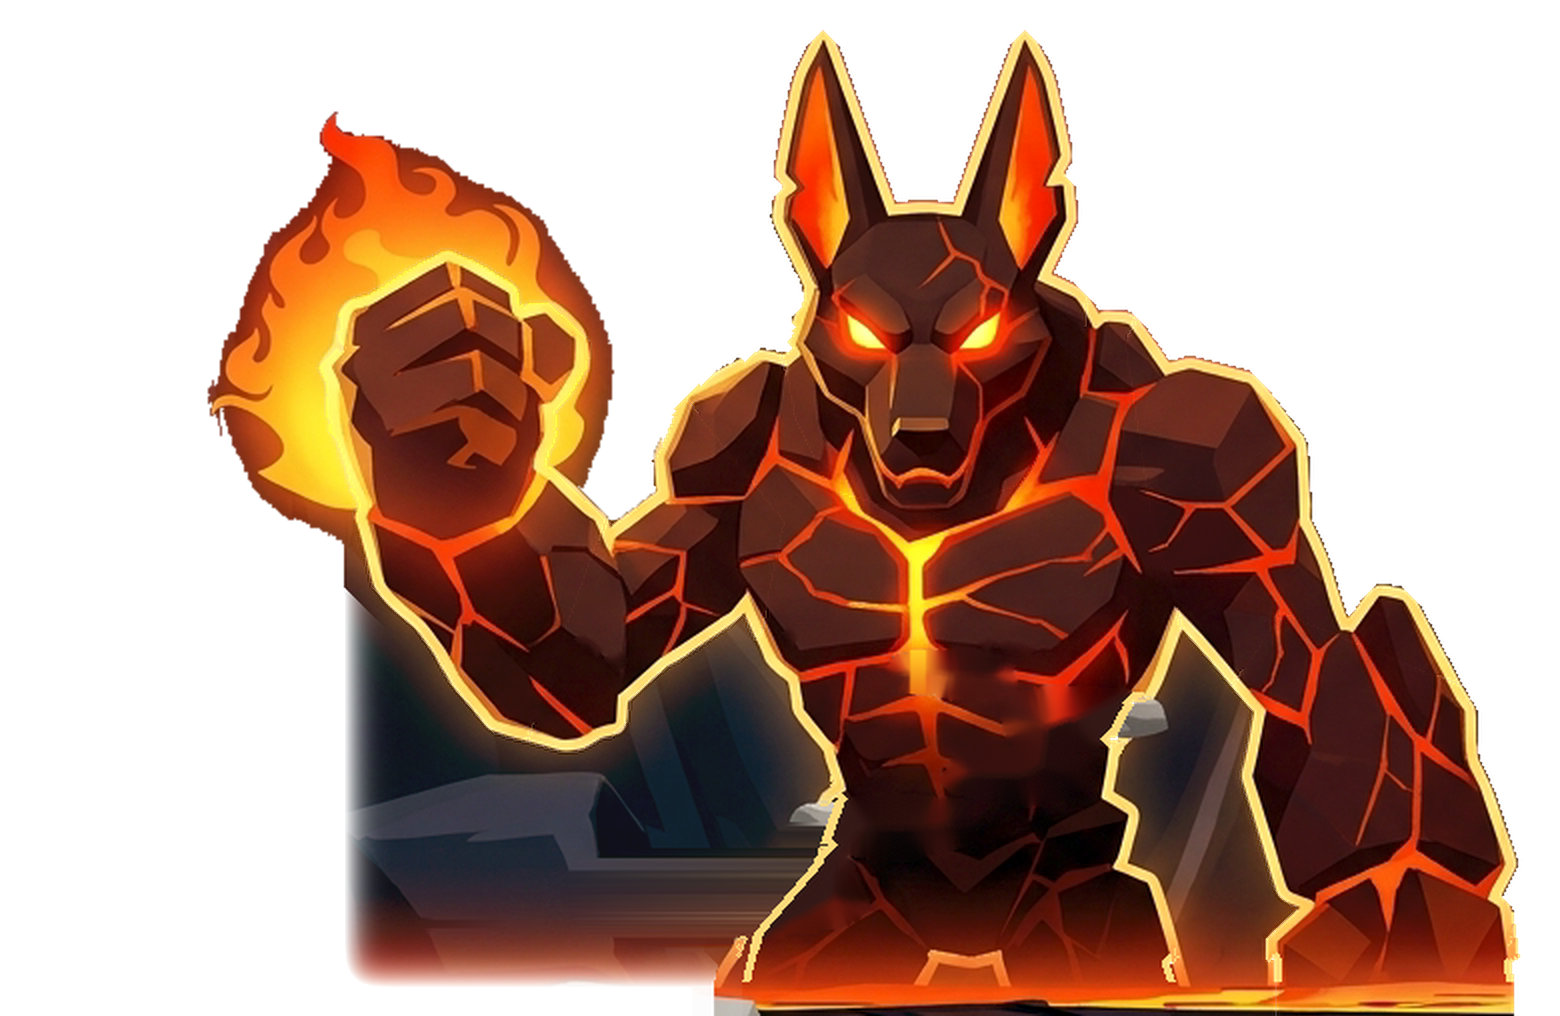
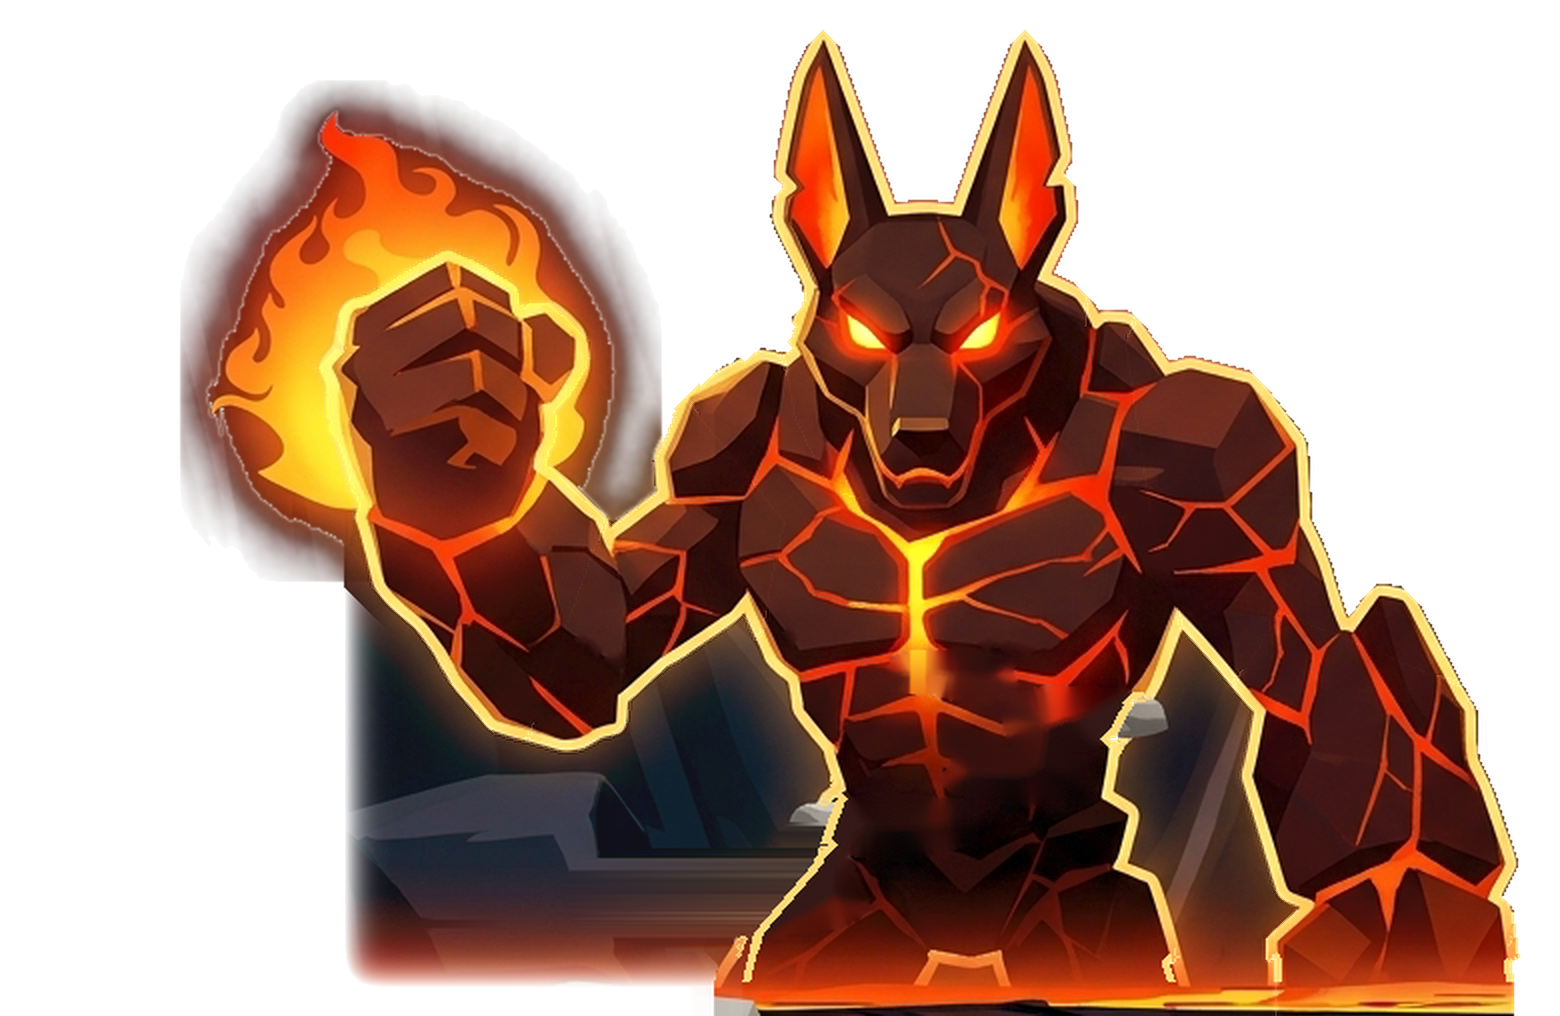
builder: fist flame keeps TARGET's own glow round it; --fist close-up pair
Claude-Session: https://claude.ai/code/session_0183EvjBG5mkJcNR5CzYepVv

Changed region(s): [[0.0923, 0.061, 0.4308, 0.5797]]

diff --git a/tools/beast_rig.py b/tools/beast_rig.py
@@ -131,6 +131,9 @@ FIRE_LEAN = 0.32
 # edge pushed it into a tall pale plume off the fist; TARGET's is a compact
 # orange-yellow blaze curling round the top and back of the fist.
 FIRE_RAW = True
+FIRE_HAZE = 0.92       # alpha of TARGET's own glow round the flame, at the flame
+FIRE_HAZE_PX = 55.0    # TARGET px it fades over
+FIRE_MAX_A = 1.0       # 0.95 (under halo_from, no halo) tried 2026-10-09: no visible change, error up
 FIRE_HUG = 22
 FIRE_CORE = 24
 FIRE_HOT = np.array([255, 244, 196], float)
@@ -407,8 +410,24 @@ def fire_layer(T, m):
         flame = hid & (r > 170) & (r - b > 90) & (g > 60)
         col = np.where(flame[..., None], T, col)
         a = np.where(flame, 1.0, a)
+    if FIRE_RAW and FIRE_HAZE > 0:
+        # TARGET's flame lights the dark cliff round it: a dark red glow
+        # between and beyond the tongues. Keyed out, the fight's slate showed
+        # there and the shader's cream halo ringed the tongues. Carry TARGET's
+        # own glow pixels, fading out FIRE_HAZE_PX from the flame, below the
+        # halo's alpha so it casts none.
+        flame_a = a > 0.5
+        dd = ndi.distance_transform_edt(~flame_a)
+        warm = np.clip((r - b - 8) / 60.0, 0, 1)
+        fall = np.clip(1.0 - dd / FIRE_HAZE_PX, 0, 1) ** 1.2
+        haze = FIRE_HAZE * warm * fall * (inside & ~m) * (~flame_a)
+        haze = ndi.gaussian_filter(haze, 1.0) * (~flame_a) * box
+        a = np.maximum(a, haze)
     if FIRE_RAW:
-        return np.clip(col, 0, 255), a
+        # Just under the shader's halo_from: TARGET's flame casts no cream
+        # halo (its own dark red glow is the haze above); at alpha 1 the
+        # tongues threw the body line's soft orange halo round themselves.
+        return np.clip(col, 0, 255), np.minimum(a, FIRE_MAX_A)
     # Lean the plume back off the fist: above the base, column x samples the
     # column FIRE_LEAN px per row further right.
     sx = xx + FIRE_LEAN * np.clip(FIRE_BASE - yy, 0, None)

diff --git a/tools/vs_target.py b/tools/vs_target.py
@@ -10,6 +10,7 @@ builder looks at this pair rather than at an adjective.
     python tools/vs_target.py shot.png out.png --hand     just the hand
     python tools/vs_target.py shot.png out.png --square   TARGET vs the centred square of the shot
     python tools/vs_target.py shot.png out.png --stones   just the staircase of slabs, cut from the same square
+    python tools/vs_target.py shot.png out.png --fist     the raised fist and its flame, cut from the same square
 
 `--square` is the 1:1 test (Nick, 2026-10-08): TARGET.png is square, the game
 is 16:9, so the game's centred 720x720 square must hold TARGET's picture with
@@ -42,6 +43,9 @@ REGIONS = {
     # 0.703 t, y 0.703 t), so the close-up zooms the same place 1:1 (builder
     # 2026-10-08; the older box was fitted to the beast, not to the square).
     "--stones": {"target": (0.25, 0.33, 0.66, 0.60), "shot": (0.3594, 0.33, 0.5891, 0.60)},
+    # the raised fist and its flame, top left of the square (builder
+    # 2026-10-09: --beast cuts the flame off at its left edge)
+    "--fist": {"target": (0.06, 0.04, 0.38, 0.36), "shot": (0.2525, 0.04, 0.4325, 0.36)},
 }
 
 

diff --git a/design/plan/BUILDER-QUEUE-NOTES.md b/design/plan/BUILDER-QUEUE-NOTES.md
@@ -2154,3 +2154,14 @@ Found by measuring, not by eye: the jackal is TARGET's own pixels, so every crac
 - The speck was the weak-point sigil (glow mesh plus an omni light) at the Height 5 climb point lifted 1.7 hunter heights. TARGET draws no mark, so a drawn beast hides the sigil's children; the node stays as the strike flash's anchor.
 - Grader: VERDICT: PASS.
 - Meshy: 0 credits.
+
+2026-10-08 23:55 EDT, builder (run 7). Not passed; item left open.
+
+- **New `--fist` close-up** in tools/vs_target.py: `--beast` cut the flame off at its left edge, so graders judged it from a sliver.
+- **The flame's own glow.** The hard key dropped TARGET's dark red glow round and between the tongues, so the fight's slate showed there. beast_rig.py `FIRE_HAZE` 0.92 / `FIRE_HAZE_PX` 55: TARGET's own warm pixels round the flame, fading with distance. Fist-box error 24.8 -> 22.3.
+- **Tried, reverted:** fire alpha 0.95 so it casts no shader halo (no visible change, error 23.8); haze over 35 px with a stricter warm key (23.3).
+- **Measured:** flame edge Laplacian TARGET 6.5 / game 7.4 (as sharp); high-frequency grain 3.5 / 3.1 (TARGET has the same grain).
+- **Grader:** R1 FAIL (judged on --beast, flame cut off), R2 FAIL with --fist: shape and place MET; asks for crisper edges and stronger inner curls, no bloom. VERDICT: FAIL.
+- Frames: ![[agents/frames/builder/2026-10-09-fist5-before.png|420]] ![[agents/frames/builder/2026-10-09-fist5-after.png|420]]
+- Meshy: 0 credits.
+

diff --git a/design/plan/BUILDER-QUEUE.md b/design/plan/BUILDER-QUEUE.md
@@ -39,7 +39,7 @@ run failed.
       Test: state=3d beast=cinder_jackal ^cracks-wide-hot-cores-and-a-long-sternum
 
 - [ ] **Fist fire: compact curling blaze wrapped on the fist.**
-      Next pass: grader R4: still a soft round dome, no separate pointed tongues with dark gaps, no red-orange tips; the rig's rest frame is TARGET's pixels exactly, and a shot with the scene's bloom off shows the tongues and gaps, so make the jackal stop blooming (glow_hdr_threshold 1.7 changed nothing; find why) rather than redrawing the flame.
+      Next pass: grader R2 (2026-10-09 run 7, with the new --fist pair): shape, size and place MET; still "blurred, wide orange bloom, dark fringe, faint inner curls" against TARGET's near-black cliff. Measured edge sharpness equals TARGET's; the slate cliffs behind the fist (Cliffs item) and the drip column left of it are the next things to fix, then re-grade with --fist.
       Both critics, MODERATE: TARGET's flame is a compact orange-yellow blaze curling round the top and back of the fist; the game's is a tall pale plume rising above and behind it.
       **Done when** the `--square` and `--beast` pairs show no visible difference in the fist's flame.
       Test: state=3d beast=cinder_jackal ^fist-fire-compact-curling-blaze-wrapped-
